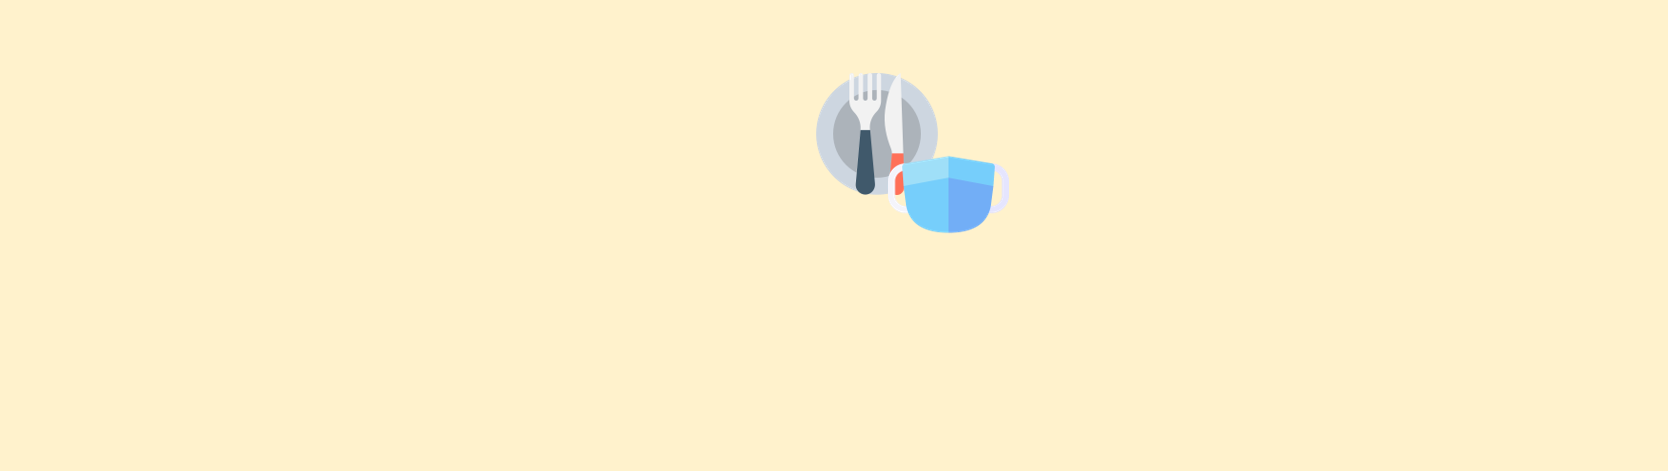
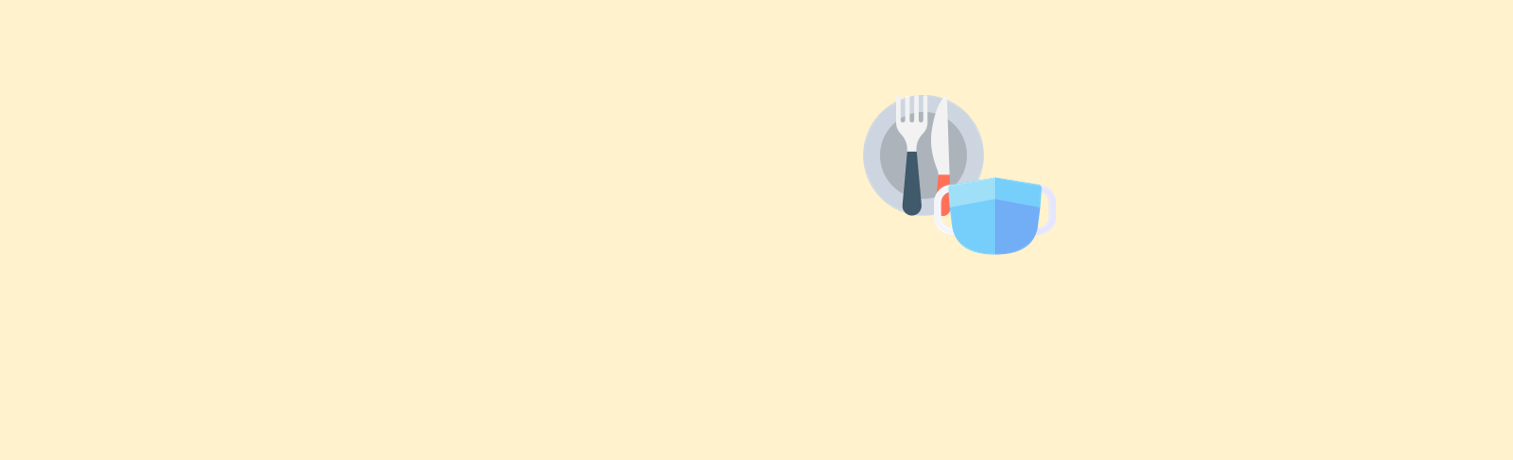
헤더 css 수정

Changed region(s): [[0.466, 0.1522, 0.7145, 0.5783]]

diff --git a/public/stylesheets/index.css b/public/stylesheets/index.css
@@ -15,11 +15,14 @@ li {
 
 .header {
     height: 300px;
+    max-width: 100%;
     /*background-color: #FFF2CC;*/
     background-image: url('header.png');
     background-repeat: no-repeat;
     background-attachment: scroll;
+    background-size: cover;
 }
+
 
 .header-text {
     width: 600px;
